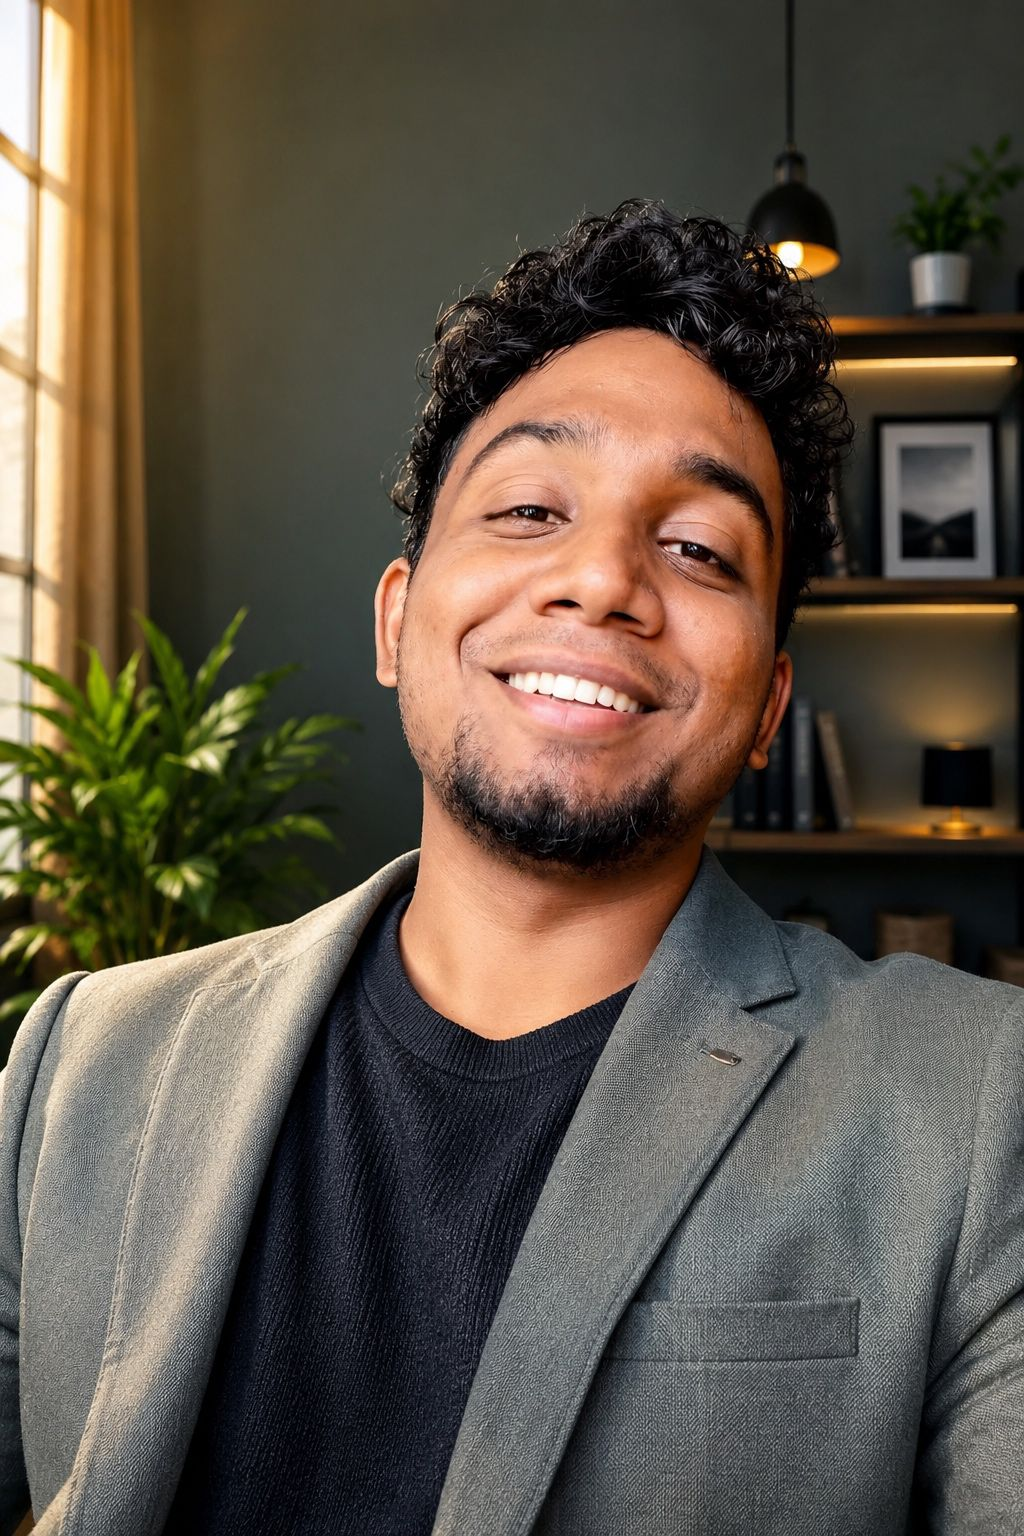
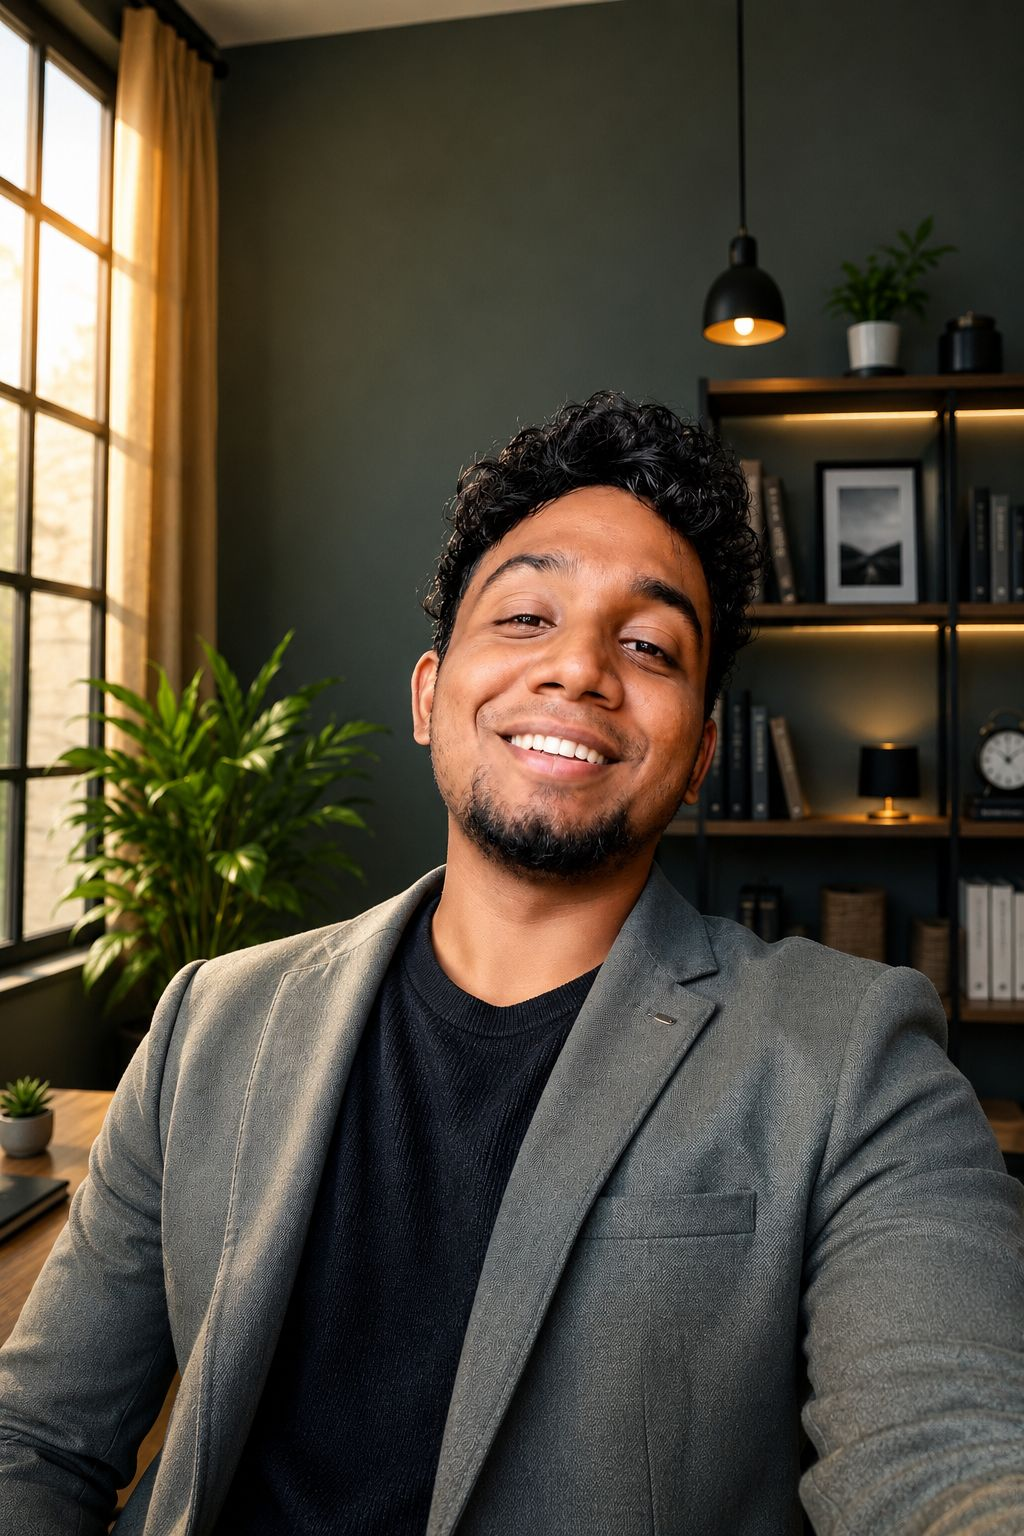
updated files

diff --git a/app/about/page.tsx b/app/about/page.tsx
@@ -1,5 +1,6 @@
 import React from 'react'
 import Link from 'next/link'
+import Image from 'next/image'
 import { Footer } from '@/components/footer'
 import { 
   Award, 
@@ -25,9 +26,9 @@ export const metadata = {
 export default function AboutPage() {
   const stats = [
     { label: 'Content Reach', value: '1.7M+', subtext: 'Business & strategy impressions' },
-    { label: 'Founders Network', value: '23,000+', subtext: 'WhatsApp community members' },
+    { label: 'Startup Network', value: '23,000+', subtext: 'WhatsApp community members' },
     { label: 'Personal Brand', value: '50,000+', subtext: 'Followers across platforms' },
-    { label: 'Global Hubs', value: '4+', subtext: 'Bangalore, Malaysia, Bangkok, Dubai' },
+    { label: 'Global Hubs', value: '4+', subtext: 'India, USA, Europe, Australia' },
   ]
 
   const ventures = [
@@ -37,6 +38,7 @@ export default function AboutPage() {
       website: 'ZaneProEd.com',
       url: 'https://zaneproed.com',
       badge: 'EdTech & Bioscience',
+      logo: '/zaneproed-logo.png',
       highlights: [
         'Built a leading bioscience learning platform combining real-world job simulations with an AI-driven career portfolio system.',
         'Developed a strong B2B and B2C engine with collaborations across biotech & pharma companies in India, U.S.A., and Europe.',
@@ -51,6 +53,7 @@ export default function AboutPage() {
       website: 'AlphaticLabs.com',
       url: 'https://alphaticlabs.com',
       badge: 'Healthcare AI & Hardware',
+      logo: '/alphaticlabs-logo.png',
       highlights: [
         'Pioneering a proprietary, one-click hardware device that turns doctor-patient conversations into structured clinical documentation in real time.',
         'Designed for zero-friction adoption, featuring seamless integration into existing Electronic Health Record (EHR) systems.',
@@ -75,7 +78,7 @@ export default function AboutPage() {
       category: 'Product & Brand',
       items: [
         'Healthcare AI & Hardware Innovation',
-        'Community Architecture & Growth',
+        'Community & Growth',
         'Strategic Partnerships',
         'Keynote Speaking'
       ],
@@ -86,11 +89,11 @@ export default function AboutPage() {
   const leadershipPoints = [
     {
       title: 'Global Ecosystem Presence',
-      description: 'Active in startup innovation, investor relations, and strategic growth across major global hubs including Bangalore, Malaysia, Bangkok, and Dubai.',
+      description: 'Active in startup innovation, investor relations, and strategic growth across major global hubs including India, USA, Europe, and Australia.',
       icon: Globe2
     },
     {
-      title: 'Community Architecture',
+      title: 'Community',
       description: 'Built a personal brand to 50,000+ followers and 1.7M+ content impressions. Launched a private founders club scaling to 23,000+ WhatsApp members in 2 months.',
       icon: Users
     },
@@ -205,8 +208,14 @@ export default function AboutPage() {
               >
                 <div>
                   <div className="flex items-center justify-between gap-2 mb-6 sm:mb-8">
-                    <div className="p-3.5 sm:p-4 rounded-2xl bg-[#f8f8f8] text-[#111111] border border-neutral-200 group-hover:scale-105 transition-transform duration-300">
-                      <Icon className="w-6 h-6 sm:w-7 sm:h-7" />
+                    <div className="h-12 w-auto min-w-[48px] max-w-[160px] p-2 rounded-2xl bg-[#f8f8f8] border border-neutral-200 flex items-center justify-center group-hover:scale-105 transition-transform duration-300 relative overflow-hidden">
+                      <Image 
+                        src={venture.logo} 
+                        alt={`${venture.company} logo`} 
+                        width={140} 
+                        height={40} 
+                        className="object-contain h-full w-auto"
+                      />
                     </div>
                     <span className="text-[11px] sm:text-xs font-mono font-semibold px-3 py-1 sm:px-3.5 sm:py-1.5 rounded-full bg-[#f8f8f8] text-[#111111] border border-neutral-200 truncate">
                       {venture.badge}

diff --git a/components/hero.tsx b/components/hero.tsx
@@ -143,7 +143,7 @@ export function Hero() {
           {[
             { 
               icon: <span className="text-xl">🚀</span>, 
-              name: 'Book a 1:1 Business Consultation', 
+              name: 'Book a 1-1 Consult', 
               href: '#consultation',
               onClick: (e: React.MouseEvent<HTMLAnchorElement>) => {
                 e.preventDefault();
@@ -157,12 +157,12 @@ export function Hero() {
                   <path d="M17.472 14.382c-.297-.149-1.758-.867-2.03-.967-.273-.099-.471-.148-.67.15-.197.297-.767.966-.94 1.164-.173.199-.347.223-.644.075-.297-.15-1.255-.463-2.39-1.475-.883-.788-1.48-1.761-1.653-2.059-.173-.297-.018-.458.13-.606.134-.133.298-.347.446-.52.149-.174.198-.298.298-.497.099-.198.05-.371-.025-.52-.075-.149-.669-1.612-.916-2.207-.242-.579-.487-.5-.669-.51a12.8 12.8 0 0 0-.57-.01c-.198 0-.52.074-.792.372-.272.297-1.04 1.016-1.04 2.479 0 1.462 1.065 2.875 1.213 3.074.149.198 2.096 3.2 5.077 4.487.709.306 1.262.489 1.694.625.712.227 1.36.195 1.871.118.571-.085 1.758-.719 2.006-1.413.248-.694.248-1.289.173-1.413-.074-.124-.272-.198-.57-.347m-5.421 7.403h-.004a9.87 9.87 0 0 1-5.031-1.378l-.361-.214-3.741.982.998-3.648-.235-.374a9.86 9.86 0 0 1-1.51-5.26c.001-5.45 4.436-9.884 9.888-9.884 2.64 0 5.122 1.03 6.988 2.898a9.825 9.825 0 0 1 2.893 6.994c-.003 5.45-4.437 9.884-9.885 9.884m8.413-18.297A11.815 11.815 0 0 0 12.05 0C5.495 0 .16 5.335.157 11.892c0 2.096.547 4.142 1.588 5.945L.057 24l6.305-1.654a11.882 11.882 0 0 0 5.683 1.448h.005c6.554 0 11.89-5.335 11.893-11.893a11.821 11.821 0 0 0-3.48-8.413Z"/>
                 </svg>
               ), 
-              name: 'Join 15k+ Members Community', 
+              name: 'Join WhatsApp Community', 
               href: 'https://whatsapp.com/channel/0029Vb7Y5f00wajjbzlEfQ1Z' 
             },
             { 
               icon: <span className="text-xl">🤝</span>, 
-              name: "Explore Brand Collabs & Partnerships", 
+              name: "Brand Collaborations", 
               href: '#partnerships',
               onClick: (e: React.MouseEvent<HTMLAnchorElement>) => {
                 e.preventDefault();
@@ -170,13 +170,19 @@ export function Hero() {
               }
             },
             { 
-              icon: <span className="text-xl">💼</span>, 
-              name: "Unlock Expert Career Guidance", 
-              href: '#career',
+              icon: <span className="text-xl">🎙</span>, 
+              name: "Invite Me", 
+              href: '#invite',
               onClick: (e: React.MouseEvent<HTMLAnchorElement>) => {
                 e.preventDefault();
-                scrollToSection('career');
+                window.dispatchEvent(new CustomEvent('openService', { detail: 'invite' }));
+                scrollToSection('services');
               }
+            },
+            { 
+              icon: <span className="text-xl">👨⚕</span>, 
+              name: "About Me", 
+              href: '/about'
             },
           ].map((link) => (
             <a 

diff --git a/components/bio-section.tsx b/components/bio-section.tsx
@@ -24,13 +24,18 @@ export function BioSection() {
         {/* Right Column: Detailed Bio */}
         <div className="flex flex-col gap-6 md:pl-12 justify-end h-full pt-8 md:pt-0">
           <p className="text-base md:text-xl text-[#111111]/80 leading-relaxed font-medium">
-            Over the past 5 years, I’ve built 6 seven-figure ventures, scaled operations across the USA, Ireland, and Malaysia, and exited 2 companies through strategic acquisitions. I’ve delivered keynote sessions at 17+ events and earned the Gold Medal for Best Presentation at IPV Weekly. 
-
+            As the Founder & CEO of Zane ProEd and Alphatic Labs, I build tech-driven companies solving real-world problems across biosciences education, healthcare innovation, and AI.
           </p>
-          <p className="text-base md:text-xl text-[#111111]/80 leading-relaxed">
-            Today, I build high-performance brands, AI-driven education systems, and modern business ecosystems designed for the next generation of founders and professionals.
+          <p className="text-base md:text-xl text-[#111111]/80 leading-relaxed font-normal">
+            Beyond building companies, my mission is creating a founder-first startup ecosystem where entrepreneurs learn, collaborate, and scale together to make lasting impact.
           </p>
           <div className="flex flex-col gap-3 mt-4">
+            <Link 
+              href="/about" 
+              className="bg-white text-[#111111] rounded-xl py-4 px-8 font-medium hover:bg-gray-100 transition-colors border border-gray-300 text-center hidden md:block"
+            >
+              About Me
+            </Link>
             <button 
               onClick={(e) => {
                 e.preventDefault();

diff --git a/components/services-grid.tsx b/components/services-grid.tsx
@@ -54,6 +54,8 @@ export function ServicesGrid() {
         setActiveService('brand');
       } else if (hash === 'career') {
         setActiveService('career');
+      } else if (hash === 'invite' || hash === 'invitemelwin') {
+        setActiveService('invite');
       }
     };
 
@@ -65,6 +67,8 @@ export function ServicesGrid() {
         setActiveService('brand');
       } else if (id === 'career') {
         setActiveService('career');
+      } else if (id === 'invite' || id === 'invitemelwin') {
+        setActiveService('invite');
       }
     };
 
